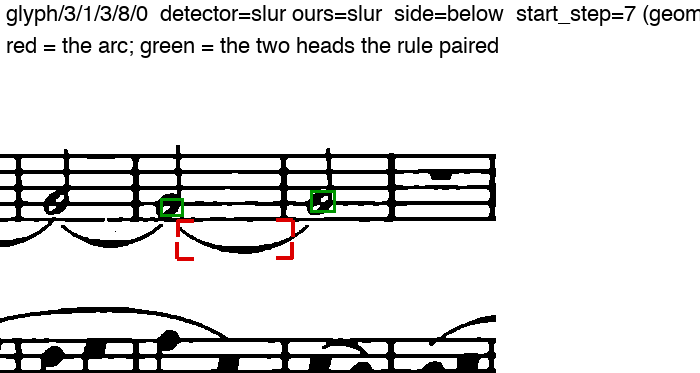
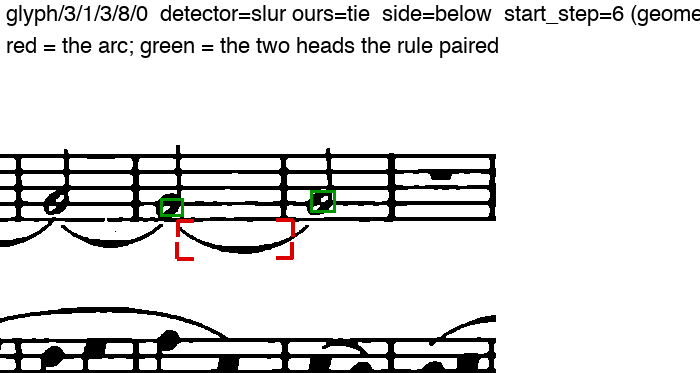
2.75b: FINDINGS 16.10 (litolff_06 fixed, litolff_04 honestly unread), re-score, regenerated blind chord tiles
Base 9b347c51 vs arm d75c0be9 on clean small re-gathers: Litolff 2 differences
(both halves of litolff_06, slur -> tie), Brahms zero; Sean's tiles 9 of 10
singles, 2 of 2 stacked. chords_brahms_03 duplicated the judged brahms_04 and is
replaced by chords_litolff_03 (arc below, top notes match, bottom notes differ).

Changed region(s): [[0.48, 0.0, 1.0, 0.0885]]

diff --git a/benchmarks/omr-arc-grammar-2026-09/FINDINGS.md b/benchmarks/omr-arc-grammar-2026-09/FINDINGS.md
@@ -1024,3 +1024,156 @@ which Sean should judge, crop `chords_brahms_02`), Litolff 0 from the any-pair
 version, 13 vs the detector in all. 5 blind chord crops of unjudged changed
 arcs: `out/print/2.75-chords/`. Fast tier 6,724 passed; `check` 193 (merge's
 `reach` +1).
+
+
+## 16.10. 2.75b -- the two reading faults of 16.9: one is fixed, one is honestly unread (lane `lane-2.75-tie-slur-b`)
+
+Path: **STAGED**, GATHER + ADJUDICATE only. Base = the merged tree `9b347c51`
+(`lane-2.75-tie-slur` dc81fd1d + main 5e78fdf1), arm = `d75c0be9` (this lane's
+one code commit), both CLEAN-tree small re-gathers (Litolff pdf 1-3, Brahms pdf
+0-1, own `--out-root` each, arm run with `--against` the base record). Control
+first: a replay of ADJUDICATE on the unchanged tree reproduces the base records'
+own `arc_kind` verdicts **512 of 512 (Litolff) and 1,034 of 1,034 (Brahms)**, and
+the base re-scores Sean's 12 tiles exactly as 16.9 recorded them (8 of 10 singles,
+2 of 2 stacked), so the faults below are real and not a changed tree. After
+merging main (2.12f, `40875f6a`, head `a336beaf`) the same replay reproduces the
+ARM records' verdicts 512 of 512 and 1,034 of 1,034.
+
+### 16.10.1 litolff_06 (Sean: tie) -- the position, not the rule: ONE HEAD, BOXED THREE TIMES
+
+`dy_spaces` said 0.314 and the steps said 7 and 6. The record on the start head
+(`glyph/3/1/3/8/5`, `diag_litolff_06_three_boxes_one_head.png`): the detector drew
+the half note ON the fourth line three times -- a whole box (kept, y 2861.8-2879.8,
+centre 2870.8, position 6.7 -> **7**), its upper half (`8/4`, 2855.7-2870.3, 5.7 -> 6,
+refused `stacked_head_duplicate`) and its lower half (`8/3`, 2866.5-2879.5, 6.98 ->
+7, refused `notehead_is_a_duplicate_box`). Sean's own 2.73: *half notes, especially
+ones on lines, get split up into two smaller boxes*. The ring on the print spans
+y ~2856-2879 (centre ~2867.5, on the line); the three boxes TILE it, and the
+centre of their union is 2867.7 -> position 6.31 -> **6**. The stop head (a single
+box, centre 2864.96, 6.1 -> 6) is on the same line. Nothing about the arc rule
+was wrong and the arc decision read the right heads; the kept box's centre was
+3-4 px low. "Measured locally" was not the fault either: the two heads' bar grids,
+derived from their own glyph rows (canonical centre - position x half-step), agree
+to ~1 px (7 canonical units = 1.1 px) -- it is the BOX centre that carries the
+0.6-step error. The thresholds in the old note (0.25-0.43)
+would have turned it into an abstention, and the class is slur: still wrong.
+
+**Fix (ADJUDICATE, `adjudicate_arc_kind`, the end-head reading):** `_head_extent`.
+A refused duplicate box SMALLER THAN A HEAD (<= `gather.HEAD_CUT_MAX_BOX_HEIGHT_
+SPACES`, 0.95 spaces -- the 2.73 reader's own line between a half-head and a
+head), standing on the kept head (overlap >= half its height, centre within half
+a head width in x), is a PIECE of it; the head is read at the centre of the union
+of the kept box and its pieces, in its own bar's grid (kept row's position + the
+offset in that bar's half-steps; scale from the same glyph row's page/canonical
+heights and `Q.CELL_STAFF_SPACE`, which closes a `KNOWN_GAPS` entry: `check`
+193 -> 192). No pieces, a far head (ledger-read), a head 2.73 already placed, a
+tall (fused) box, or no staff-space unit on the record: nothing changes. `detail
+.grammar.tie_slur_rule.two_note.start_extent / stop_extent` record `members`,
+`kept_step`, `union_spaces`, `pos`, `step`; `start_step_source` reads
+`geometry_extent`.
+
+**A first version took the union of EVERY refused box overlapping the head and was
+thrown away on the crops.** It moved 9 Litolff arcs: litolff_06 (both halves), and
+7 that went to "unread" because the union came out taller than 1.7 spaces. Crops of
+the clusters (`glyph/3/1/3/0/6` and `glyph/3/1/5/11/3`, unions 1.74 spaces, and
+`glyph/3/0/5/2/8`, 1.94, kept as `diag_one_head_two_boxes_union_1.94sp.png`): ONE head
+each, the second box a full-size copy shifted a few px or stretched into blank paper;
+and `glyph/2/1/3/12/6` (`diag_two_heads_boxes_union_2.01sp.png`, 2.01): TWO heads, a
+fused box over both. Union height does not separate them (Litolff's 60 clusters --
+Brahms has 8 -- run continuously from 1.0 to 4.1 spaces, and the centre offsets of
+its 68 refused boxes from 0.00 to 1.25 spaces, with no gap), so no bound on "one
+head" was kept: only boxes the size of a PIECE count, which is a statement about the
+boxes' kind (2.73), not a threshold fitted to a tile.
+
+Population (the arm prints it first; it is small, and said so): Litolff pdf 1-3 --
+512 arcs, 407 kept (not refused as not-an-arc), **210 judged by the two-note rule**,
+**2 reached by the piece reading** (both halves of litolff_06's tie), 2 changed
+(`slur -> tie`). Heads: 3 of 1,109 kept Litolff heads and 3 of 1,154 Brahms heads
+have a refused piece at all; the union moves a step on 2 Litolff heads (one is this
+one, the other a ledger-read far head the arc rule does not use) and on 0 Brahms
+heads. Brahms pdf 0-1 -- 1,034 arcs, 630 kept, 393 judged, **0 reached, 0 changed**.
+`readout diff` base vs arm (`--arm code`): Litolff **2 differences** (both `arc_kind`
+slur -> tie), GATHER identical on every family; Brahms **ZERO differences**.
+Sean's hand-labelled Brahms page (`data/hand-truth/pages/imslp317803/0.json`, now
+140 truth boxes, 125 matched): 109 right, base = arm. Not shown: any difference on
+engraved or export, by design (first two stages).
+
+Tests (`test_staged_arc_kind_head_extent_2026_10_09.py`, 10): **red first** -- 3
+fail on the unrepaired `ownership.py` (litolff_06 as a tie, the one-step-lower
+head, the half-box piece), 7 controls pass on it: two steps lower is a slur; a
+refused box the size of a head, beside the head, not overlapping it, and a half-box
+with no refusal are NOT pieces; a ledger-read head is never moved by its pieces.
+
+What it does NOT do: the kept head's own PITCH (`restate_pitch` reads the kept box)
+stays a step off for that head, and `adjudicate_tie_pair` for litolff_06 still
+abstains `no_pair_at_one_position` (its boxes are 5.8 px apart): the KIND is right,
+the `<tied>` pairing and that head's pitch are not. Both need the head's position
+decided once for ordinary heads (`Q.NOTEHEAD_POSITION` is far heads only), a
+decision that reaches 3 of 1,109 heads on these pages -- not built here.
+
+### 16.10.2 litolff_04 (Sean: tie) -- NOT a barline blob; an oversize box, and it stays unread
+
+The old note read the stop box as "head + barline ink". The record and the crop
+(`diag_litolff_04_oversize_box_one_head.png`): `glyph/2/0/7/10/3`, 48.5 x 45 px
+(2.05 head widths x 2.19 head heights), `noteheadBlackOnLine`, conf 0.26, holds ONE
+hollow head (the ring and its slash, bottom space, ~1495.5) at its right, the rising
+end of the same tie's right half-arc at its lower left, and the stem's column; the
+barline touches its left edge but is not inside it. The box centre (1498.9) reads
+7.48 -- on a rounding boundary (residual 0.48) -- while the head is at 7.0. The
+reading that is wrong is the BOX, and the box is the same size class as the two
+fused-chord boxes Sean judged as ties (litolff_03's start is 1.98 x 1.86), so size
+cannot say "one head with other ink" from "two heads fused". ADJUDICATE has no
+raster, so the head's own centre cannot be measured there; the arc's two readings
+(one head at 7.0 -> tie; two heads, bottom at ~9 -> slur) are both live, the
+decision says `unread` (`stop_step_source: tall_box_end`) and the detector's class
+stands. **Still WRONG on the tile, honestly unread.** What would resolve it is a
+GATHER ink reading of how many head rings a tall box holds and where (not built;
+a new item). Its population: Litolff pdf 1-3 -- of the 54 judged arcs that stay
+unread, **19 end on a tall box** (17 for that reason alone) and 37 on a far head
+whose ledgers were not read (2 are both; the small re-gather pools too few heads
+for the far-head reader); Brahms -- 7 unread of 393 judged, 3 on a tall box, 4 on a
+far head.
+Detector class on those 19: 11 tie, 8 slur, so the class is not noise there, and
+litolff_02/03 (also tall-box ends) are right only because it stands.
+
+### 16.10.3 Sean's 12 judged tiles, re-scored on the arm records
+
+| tile | Sean | ours | before 2.75b |
+|---|---|---|---|
+| litolff_01 | slur | slur (different pitch) | right |
+| litolff_02 | tie | tie (unread, class stands) | right by abstention |
+| litolff_03 | tie | tie (unread, class stands) | right by abstention |
+| litolff_04 | tie | **slur** (unread, class stands) | WRONG |
+| litolff_05 | tie | tie (same pitch) | right |
+| litolff_06 | tie | **tie (same pitch, extent)** | WRONG |
+| brahms_01 | slur | slur | right |
+| brahms_02 | slur | slur | right |
+| brahms_03 | tie | tie | right |
+| brahms_04 | tie | tie | right |
+| stacked_below_01 | A tie, B slur | A tie, B slur | right |
+| stacked_below_02 | A tie, B slur | A tie, B slur | right |
+
+Singles **9 of 10** (8 before), stacked **2 of 2**; of the 9, two are right only
+because the detector's class stands where the rule is unread. In-sample: litolff_06
+is the case the fix was written for.
+
+### 16.10.4 The five chord tiles (`out/print/2.75-chords/`, NOT shown to Sean)
+
+Re-checked against the current build (and re-cut from the arm records; four of the
+five PNGs came out byte-identical to the previous lane's, which says the gather is
+stable there): the readings did not move. `chords_brahms_03` was the arc Sean
+already judged as brahms_04 (glyph/1/0/2/5/8, "Tie"), so it was replaced by
+`chords_litolff_03` (glyph/3/1/2/6/2): an arc BELOW whose top notes match and whose
+bottom notes differ -- the discriminating shape for the top/bottom rule (the any-pair
+rule would say tie; ours: slur). Readings are in `manifest.json` only. A unit worth
+knowing: `dy_spaces` in the arc decision is measured in AVERAGE HEAD HEIGHTS, not
+staff spaces (on Litolff a head box averages 1.2-1.3 spaces), so its 0.25 limit is
+~0.3 spaces; the field name is misleading, the behaviour is as measured before.
+
+### 16.10.5 Open
+
+* the chord-tie `<tied>` pairing for export (`adjudicate_tie_pair` pairs single
+  same-position heads only), unchanged;
+* litolff_06's pairing and the kept head's pitch (16.10.1), litolff_04's head count
+  and centre (16.10.2): two candidate items, neither built;
+* Sean's judgement of the five chord tiles.
